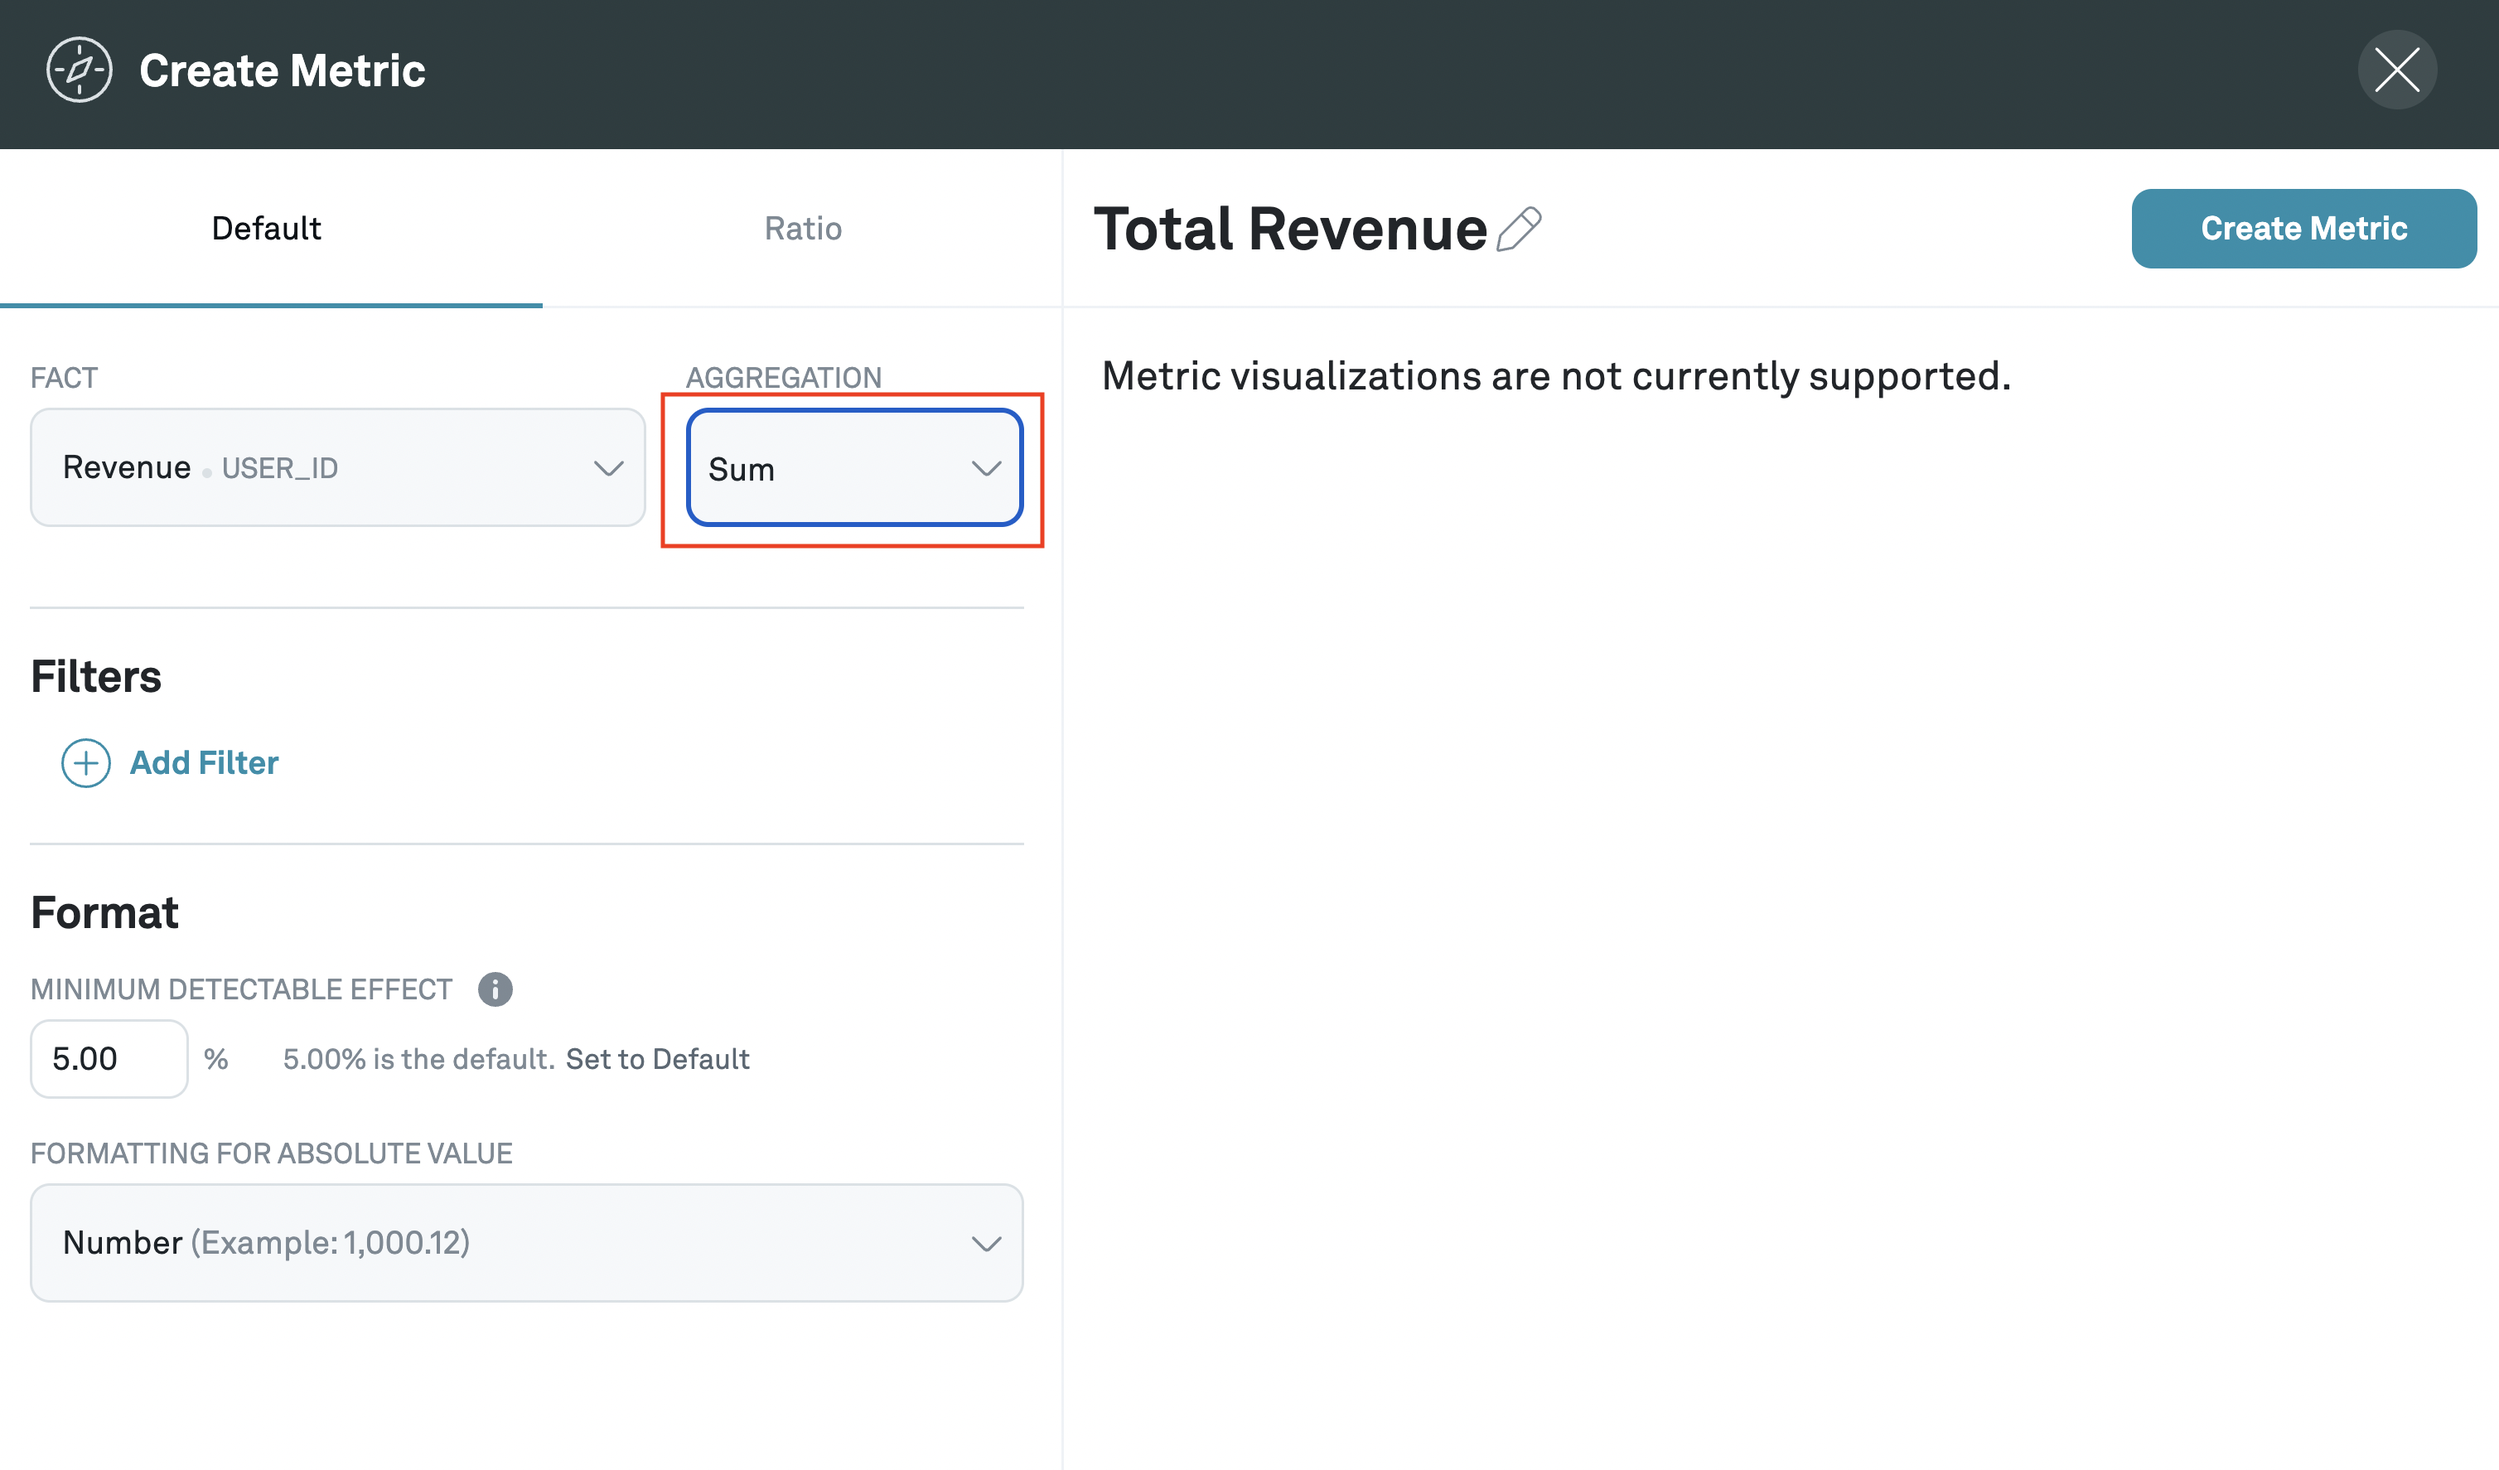
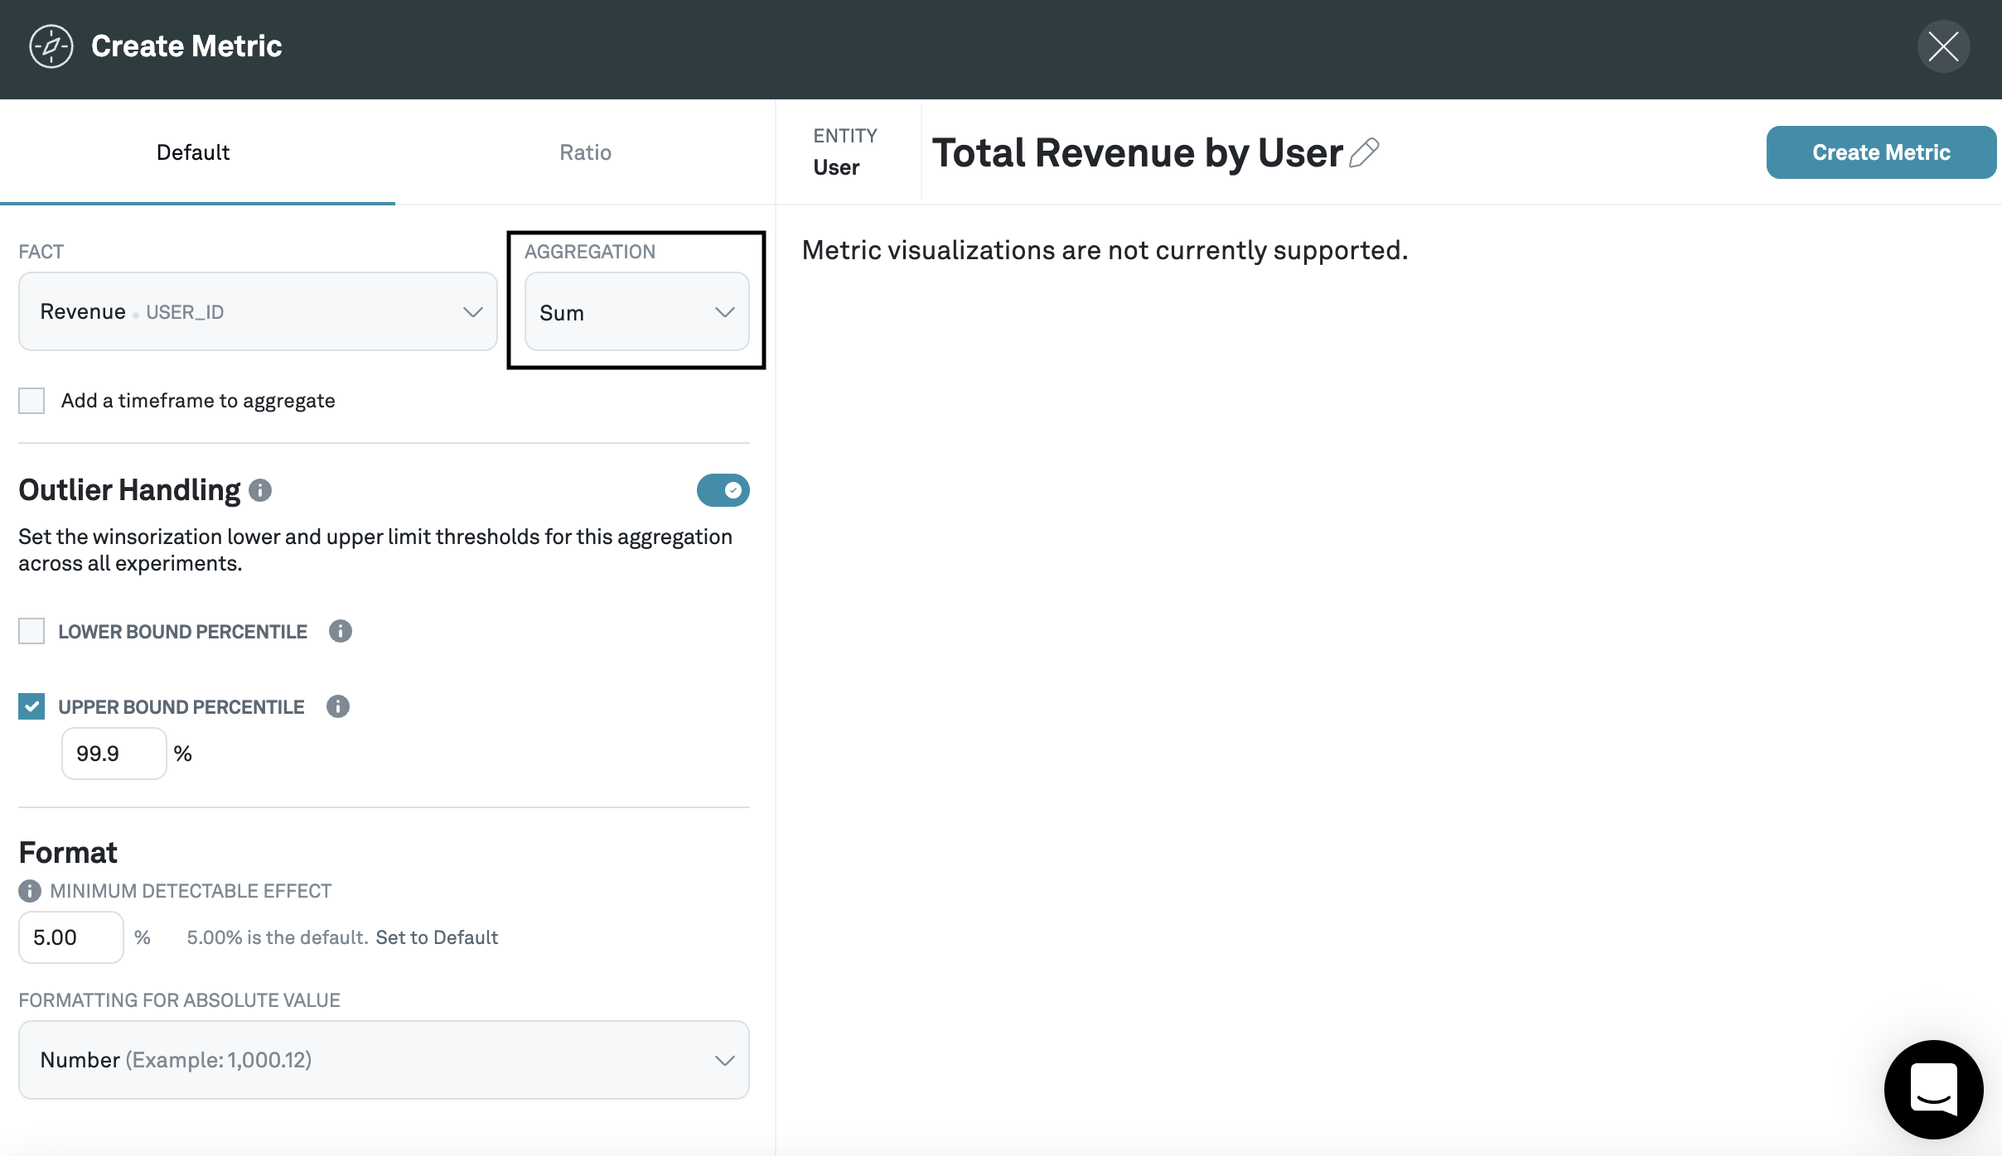
updating pictures (#91)
* updating pictures

updating the pictures to include new custom winsorization option

* adding winsorization reference

* fixing typo

* adding winsorization example

* adding bold headers

diff --git a/docs/experiments/building-experiments/metrics/creating-metrics.md b/docs/experiments/building-experiments/metrics/creating-metrics.md
@@ -2,17 +2,17 @@
 
 Metrics are statistics like "Revenue per User" or "Signup Rate" that Eppo will calculate for you. In order to create a metric, you first need to have set up a [Fact SQL Definition](/experiments/building-experiments/definitions/fact-sql) to point to the underlying data for your metric in your data warehouse.
 
-1. Navigate to **Metrics**, click **+Metric**, then select **User** as the subject of the metric
+1. **Navigate to `Metrics`, click `+Metric`, then select `User` as the subject of the metric**
 
 **User** is the default entity in Eppo, but you can also create a [custom entity](../../building-experiments/entities) and select it here.
 
-2. Select a fact
+2. **Select a fact**
 
 ![Select Fact](../../../../static/img/building-experiments/select-fact-for-metric.png)
 
 This should be one of the facts that you created in the step above, and should correspond to a metric that you want to track in an experiment.
 
-3. Select an aggregation
+3. **Select an aggregation**
 
 ![Select Aggregation](../../../../static/img/building-experiments/select-aggregation-for-metric.png)
 
@@ -21,12 +21,22 @@ The aggregation will aggregate over whatever the fact is measuring on a per-enti
 Eppo supports the following aggregations:
 
 - [SUM](#sum)
-- [COUNT DISTINCT](#count-distinct)
+- [UNIQUE ENTITIES](#unique-entities)
 - [COUNT](#count)
 - [RETENTION](#retention)
 - [CONVERSION](#conversion)
+- [THRESHOLD](#threshold)
 
-4. (Optional) Create a denominator for your metric
+4. **Set outlier handling**
+
+Eppo handles outliers through a technique called winsorization. Lower and upper bounds by percentiles for winsorization can be defined by the user for every metric. For example, in the screenshot below, we are setting the upper bound for winsorization at the 99.9th percentile. This means that any user with a value above the 99.9th percentile will be rounded down to the 99.9th percentile value.
+
+Note that winsorization is only utilized for `SUM` and `COUNT` aggregations. This is because conversion and retention metrics are binomial variables that are not prone to influence from outliers. As a result, winsorization is redundant for these metric types.
+
+![Winsorization highlight](../../../../static/img/building-experiments/outlier-handling.png)
+
+
+5. (Optional) **Create a denominator for your metric**
 
 You may actually want to create a metric that is a ratio of two facts. To do this, click on the **Ratio** tab, and select the appropriate fact and aggregation for the denominator as well.
 
@@ -34,7 +44,7 @@ You may actually want to create a metric that is a ratio of two facts. To do thi
 
 In the example above, we're creating a metric that corresponds to the revenue per user per purchase.
 
-5. Select a minimum detectable effect
+6. **Select a minimum detectable effect**
 
 The minimum detectable effect refers to the smallest effect you want to reliably detect in experiments. The lower the minimum detectable effect you set, the more samples you'll need for the experiment to reach conclusive results.
 
@@ -48,9 +58,9 @@ $\frac{\text{SUM of fact value}}{\text{Number of unique entities assigned}}$
 
 Examples: average revenue per user, sign-up rate, minutes streamed per user, average order value.
 
-### Count Distinct
+### Unique Entities
 
-Count Distinct computes the number of unique entities with a non-null event. If the fact value is NULL, it is discarded.
+`Unique Entities` computes the number of unique entities with a non-null event. If the fact value is NULL, it is discarded.
 
 $\frac{\text{Number of unique entities with an event}}{\text{Number of unique entities assigned}}$
 
@@ -86,5 +96,8 @@ For example, if $X = 7 \text{ days}$, Eppo records a conversion event for an ent
 
 $(\text{timestamp of event}) - (\text{timestamp of assignment}) < 7 \text{ days}$.
 
+### Threshold
 
+Threshold metrics measure the proportion of entities who meet a user-specified `SUM` OR `COUNT` of a fact within an optional time-period. For example, you might want to understand what share of users in your experiment spent more than $100 within 7 days of assignment into an experiment.
 
+![Threshold example](../../../../static/img/building-experiments/threshold_metric_example.png)
